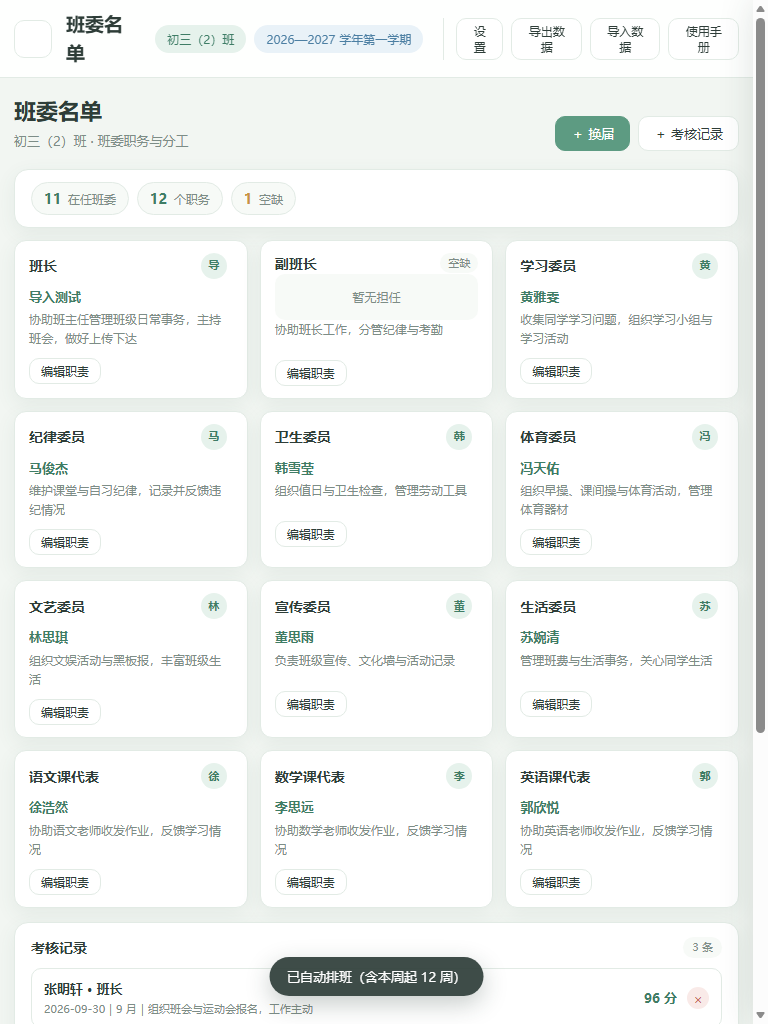
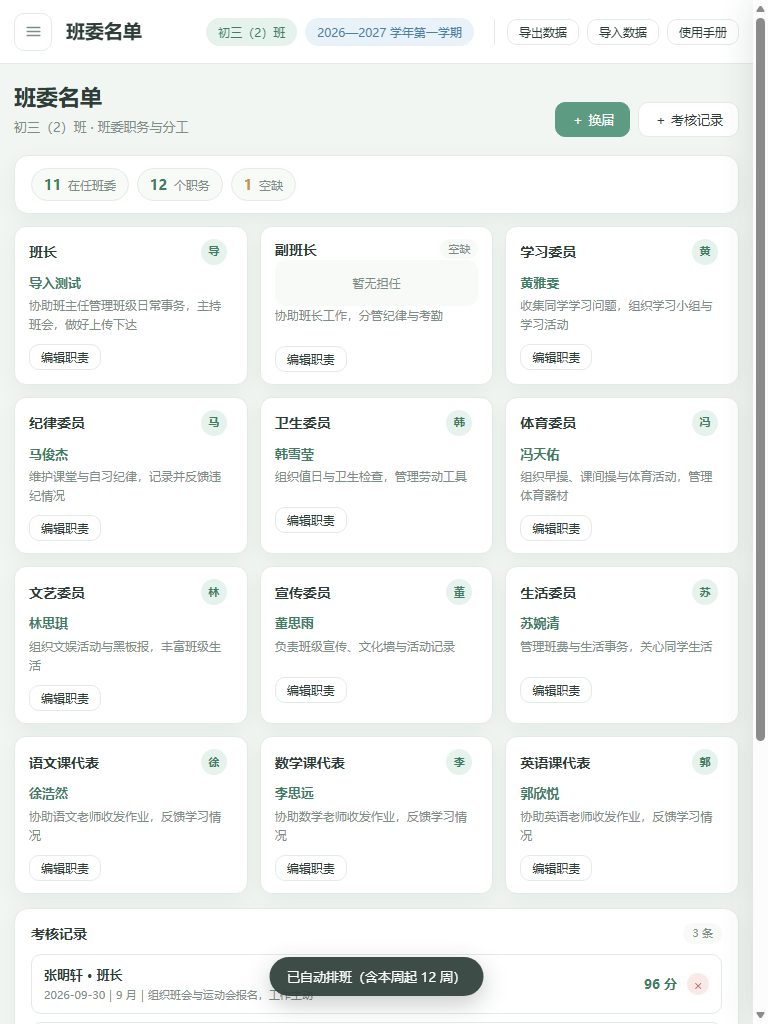
feat: 设置入口移至左侧导航栏底部并带齿轮图标
- 设置按钮从顶栏移到侧栏底部（桌面与移动端统一位置），带齿轮图标
- 顶栏仅保留导出 / 导入 / 使用手册，移动端顶栏更宽松
- 设置按钮改用独立类，避免被导航事件误绑定（此前点击设置会触发导航逻辑导致页面状态异常）
- 移动端点击设置自动收起侧栏再打开设置抽屉；折叠态仅显示图标

diff --git a/css/style.css b/css/style.css
@@ -136,7 +136,8 @@ button { font-family: inherit; }
   gap: 4px;
 }
 
-.nav-item {
+.nav-item,
+.sidebar-setting-btn {
   display: flex;
   align-items: center;
   gap: 11px;
@@ -152,7 +153,8 @@ button { font-family: inherit; }
   transition: background .15s, color .15s;
 }
 
-.nav-item:hover { background: var(--primary-soft); color: var(--primary-deep); }
+.nav-item:hover,
+.sidebar-setting-btn:hover { background: var(--primary-soft); color: var(--primary-deep); }
 
 .nav-item.active {
   background: var(--primary-soft);
@@ -177,8 +179,15 @@ button { font-family: inherit; }
 }
 
 .sidebar-foot {
-  padding: 14px;
+  padding: 12px 12px 14px;
   border-top: 1px solid var(--border);
+  display: flex;
+  flex-direction: column;
+  align-items: stretch;
+  gap: 10px;
+}
+
+.sidebar-foot-row {
   display: flex;
   align-items: center;
   gap: 10px;
@@ -208,8 +217,10 @@ button { font-family: inherit; }
 .app.collapsed .nav-label,
 .app.collapsed .nav-soon,
 .app.collapsed .collapse-label { display: none; }
-.app.collapsed .nav-item { justify-content: center; }
-.app.collapsed .sidebar-foot { justify-content: center; }
+.app.collapsed .nav-item,
+.app.collapsed .sidebar-setting-btn { justify-content: center; }
+.app.collapsed .sidebar-foot { justify-content: center; align-items: center; }
+.app.collapsed .sidebar-foot-row { justify-content: center; }
 .app.collapsed .collapse-btn svg { transform: rotate(180deg); }
 
 /* ---------- 顶栏 ---------- */
@@ -2283,8 +2294,10 @@ body.drawer-lock { overflow: hidden; }
   .app.collapsed .nav-label,
   .app.collapsed .nav-soon,
   .app.collapsed .collapse-label { display: initial; }
-  .app.collapsed .nav-item { justify-content: flex-start; }
-  .app.collapsed .sidebar-foot { justify-content: flex-start; }
+  .app.collapsed .nav-item,
+  .app.collapsed .sidebar-setting-btn { justify-content: flex-start; }
+  .app.collapsed .sidebar-foot { justify-content: flex-start; align-items: stretch; }
+  .app.collapsed .sidebar-foot-row { justify-content: flex-start; }
   .app.collapsed .collapse-btn svg { transform: none; }
 
   .menu-btn { display: grid; }

diff --git a/index.html b/index.html
@@ -40,10 +40,18 @@
       <nav class="nav" id="nav" aria-label="主导航"></nav>
 
       <div class="sidebar-foot">
-        <button class="collapse-btn" id="collapseBtn" type="button" title="收起 / 展开导航" aria-label="收起导航">
-          <svg viewBox="0 0 24 24"><path d="m15 6-6 6 6 6"/></svg>
+        <button class="sidebar-setting-btn" id="settingsBtn" type="button" title="班级信息、自动备份等通用设置" aria-label="打开设置">
+          <span class="nav-icon">
+            <svg viewBox="0 0 24 24"><circle cx="12" cy="12" r="3"/><path d="M12 3v2.2M12 18.8V21M3 12h2.2M18.8 12H21M5.6 5.6l1.6 1.6M16.8 16.8l1.6 1.6M18.4 5.6l-1.6 1.6M7.2 16.8l-1.6 1.6"/></svg>
+          </span>
+          <span class="nav-label">设置</span>
         </button>
-        <span class="collapse-label">收起导航</span>
+        <div class="sidebar-foot-row">
+          <button class="collapse-btn" id="collapseBtn" type="button" title="收起 / 展开导航" aria-label="收起导航">
+            <svg viewBox="0 0 24 24"><path d="m15 6-6 6 6 6"/></svg>
+          </button>
+          <span class="collapse-label">收起导航</span>
+        </div>
       </div>
     </aside>
 
@@ -59,7 +67,6 @@
           <span class="chip chip-accent" id="chipSemester">2026—2027 学年</span>
           <span class="topbar-date" id="topDate"></span>
           <div class="topbar-actions">
-            <button class="btn tiny" id="settingsBtn" type="button" title="班级信息、自动备份等通用设置">设置</button>
             <button class="btn tiny" id="exportBtn" type="button" title="将全部数据导出为 JSON 备份">导出数据</button>
             <button class="btn tiny" id="importBtn" type="button" title="导入数据：备份恢复 / 花名册 / 课程表">导入数据</button>
             <button class="btn tiny" id="manualBtn" type="button" title="功能使用参考手册">使用手册</button>

diff --git a/js/app.js b/js/app.js
@@ -4612,6 +4612,7 @@ function settingsDrawer() {
 }
 
 async function openSettingsDrawer() {
+  byId('app').classList.remove('sidebar-open');
   state.drawerKey = 'settings';
   byId('drawer').innerHTML = settingsDrawer();
   byId('app').classList.add('drawer-open');
